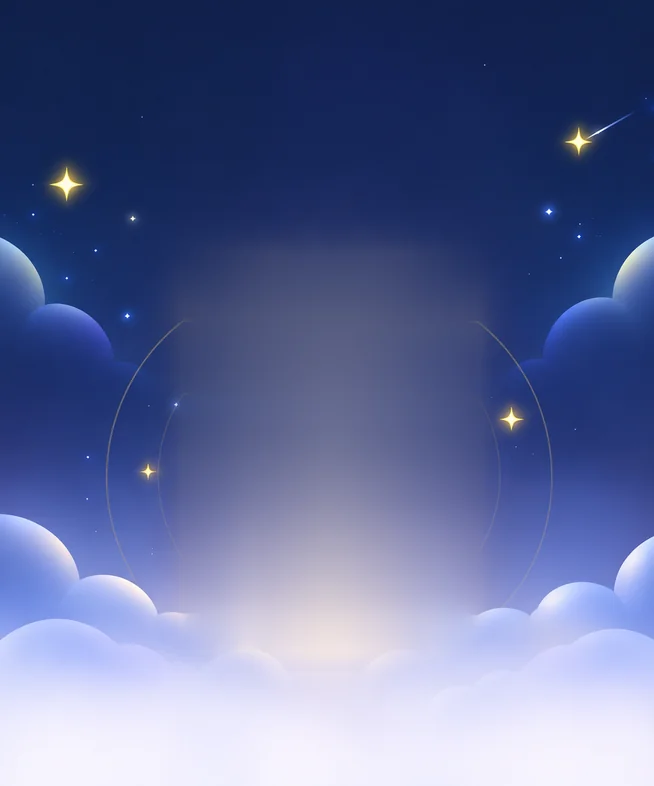
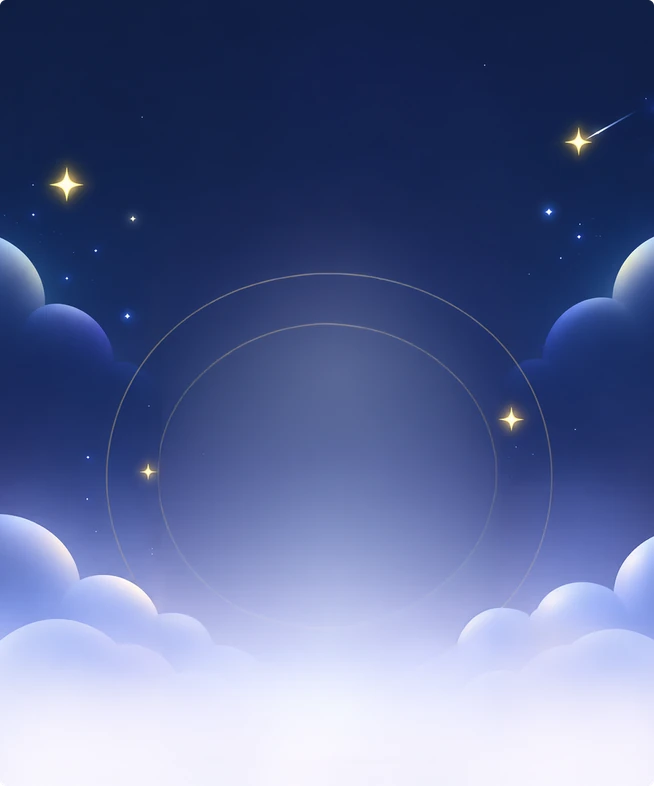
fix(ui): enable mouse dragging for premium period selectors and update the combined analysis layout and tarot hero artwork

diff --git a/src/screens/CombinedAnalysisScreen.tsx b/src/screens/CombinedAnalysisScreen.tsx
@@ -65,6 +65,22 @@ export default function CombinedAnalysisScreen() {
         </View>
       </View>
 
+      <SectionHeader variant="figma" title="오늘 나에게 맞는 이야기" />
+      <View style={s.stories}>
+        {sections.map((section, i) => {
+          const theme = STORIES[i % STORIES.length];
+          return (
+            <View key={`${i}-${section.title}`} style={[s.section, { backgroundColor: isDark ? colors.card : theme.bg }]}>
+              <View style={s.sectionHead}>
+                <Image source={theme.icon} style={s.icon} contentFit="contain" />
+                <Text style={s.sectionTitle}>{section.title}</Text>
+              </View>
+              <Text style={s.sectionBody}>{section.body}</Text>
+            </View>
+          );
+        })}
+      </View>
+
       <SectionHeader variant="figma" title="오늘 분야별 운세" caption="눌러서 자세히 보기" />
       <View style={s.categories}>
         {CATEGORIES.map((category, i) => (
@@ -96,22 +112,6 @@ export default function CombinedAnalysisScreen() {
                   })}
                 </Text>
               </View>
-            </View>
-          );
-        })}
-      </View>
-
-      <SectionHeader variant="figma" title="오늘 나에게 맞는 이야기" />
-      <View style={s.stories}>
-        {sections.map((section, i) => {
-          const theme = STORIES[i % STORIES.length];
-          return (
-            <View key={`${i}-${section.title}`} style={[s.section, { backgroundColor: isDark ? colors.card : theme.bg }]}>
-              <View style={s.sectionHead}>
-                <Image source={theme.icon} style={s.icon} contentFit="contain" />
-                <Text style={s.sectionTitle}>{section.title}</Text>
-              </View>
-              <Text style={s.sectionBody}>{section.body}</Text>
             </View>
           );
         })}

diff --git a/src/components/premium/Kit.tsx b/src/components/premium/Kit.tsx
@@ -3,7 +3,7 @@
  */
 import { Image as AssetImage } from 'expo-image';
 import React, { useEffect, useRef } from 'react';
-import { ActivityIndicator, Image, Platform, ScrollView, StyleProp, StyleSheet, Text, TextStyle, View, ViewStyle, type ScrollViewInstance } from 'react-native';
+import { ActivityIndicator, Image, Platform, StyleProp, StyleSheet, Text, TextStyle, View, ViewStyle, type ScrollViewInstance } from 'react-native';
 import { LinearGradient } from 'expo-linear-gradient';
 import PressableScale from '../PressableScale';
 import Card from '../Card';
@@ -18,6 +18,7 @@ import { fonts, radius, SCREEN_PX, shadow, txt, sansW } from '../../theme/typogr
 import { HeadTitle } from '../SectionHeader';
 import { ART, MascotPeek } from '../Mascot';
 import GradientBorder from '../GradientBorder';
+import HScroll from '../HScroll';
 import { Coin } from '../Amount';
 
 export const scoreColor = (v: number) => (v >= 85 ? colors.purple : v >= 75 ? colors.purpleSoft : colors.inkMute);
@@ -220,7 +221,7 @@ export function ChipSelect<T extends string | number>({ items, value, onChange }
   };
   useEffect(() => { scrollTo(String(value), true); }, [value]);
   return (
-    <ScrollView ref={ref} horizontal showsHorizontalScrollIndicator={false} style={{ marginHorizontal: -SCREEN_PX, marginTop: 12 }} contentContainerStyle={{ paddingHorizontal: SCREEN_PX, gap: 8, paddingVertical: 2 }}>
+    <HScroll scrollRef={ref} style={{ marginHorizontal: -SCREEN_PX, marginTop: 12 }} contentContainerStyle={{ paddingHorizontal: SCREEN_PX, gap: 8, paddingVertical: 2 }}>
       {items.map(([k, l, sub]) => {
         const on = String(k) === String(value);
         return (
@@ -233,7 +234,7 @@ export function ChipSelect<T extends string | number>({ items, value, onChange }
           </View>
         );
       })}
-    </ScrollView>
+    </HScroll>
   );
 }
 

diff --git a/src/components/HScroll.tsx b/src/components/HScroll.tsx
@@ -5,8 +5,9 @@ import { Platform, ScrollView, StyleProp, ViewStyle, type ScrollViewInstance } f
  * 가로로 넘기는 줄. 휴대폰은 손가락으로 넘기면 되지만 데스크톱 웹은 마우스로 넘길 방법이 없어서
  * 웹에서는 마우스로 잡아 끌면 넘어가게 한다. 끌다가 놓을 때는 카드가 눌리지 않는다.
  */
-export default function HScroll({ children, contentContainerStyle, style }: { children: React.ReactNode; contentContainerStyle?: StyleProp<ViewStyle>; style?: StyleProp<ViewStyle> }) {
-  const ref = useRef<ScrollViewInstance>(null);
+export default function HScroll({ children, contentContainerStyle, style, scrollRef }: { children: React.ReactNode; contentContainerStyle?: StyleProp<ViewStyle>; style?: StyleProp<ViewStyle>; scrollRef?: React.RefObject<ScrollViewInstance | null> }) {
+  const ownRef = useRef<ScrollViewInstance>(null);
+  const ref = scrollRef ?? ownRef;
   useEffect(() => {
     if (Platform.OS !== 'web') return;
     const el = (ref.current as unknown as { getScrollableNode?(): HTMLElement } | null)?.getScrollableNode?.();
@@ -40,7 +41,7 @@ export default function HScroll({ children, contentContainerStyle, style }: { ch
       el.removeEventListener('click', onClick, true);
       el.removeEventListener('dragstart', noDrag);
     };
-  }, []);
+  }, [ref]);
   return (
     <ScrollView ref={ref} horizontal showsHorizontalScrollIndicator={false} style={style} contentContainerStyle={contentContainerStyle}>
       {children}
